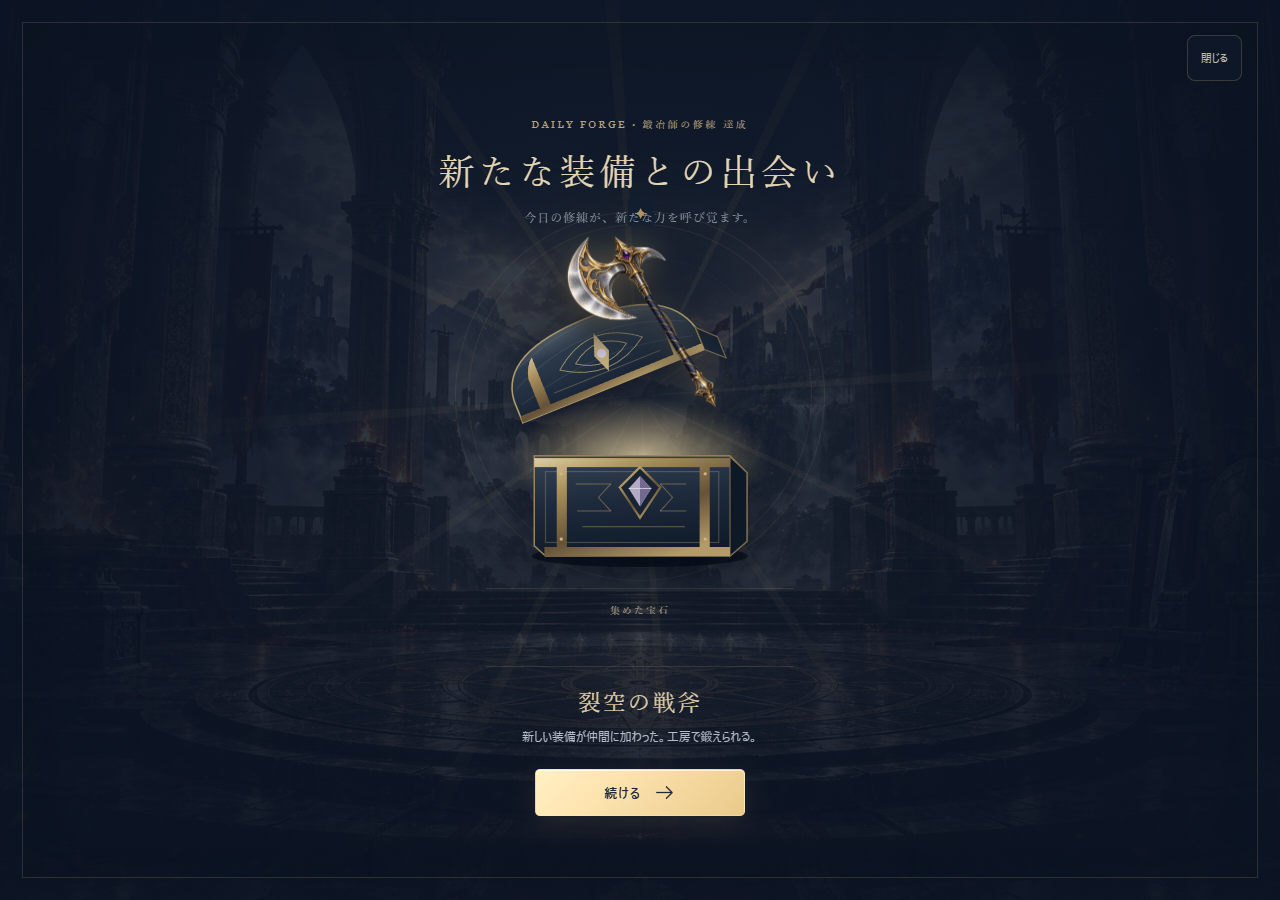
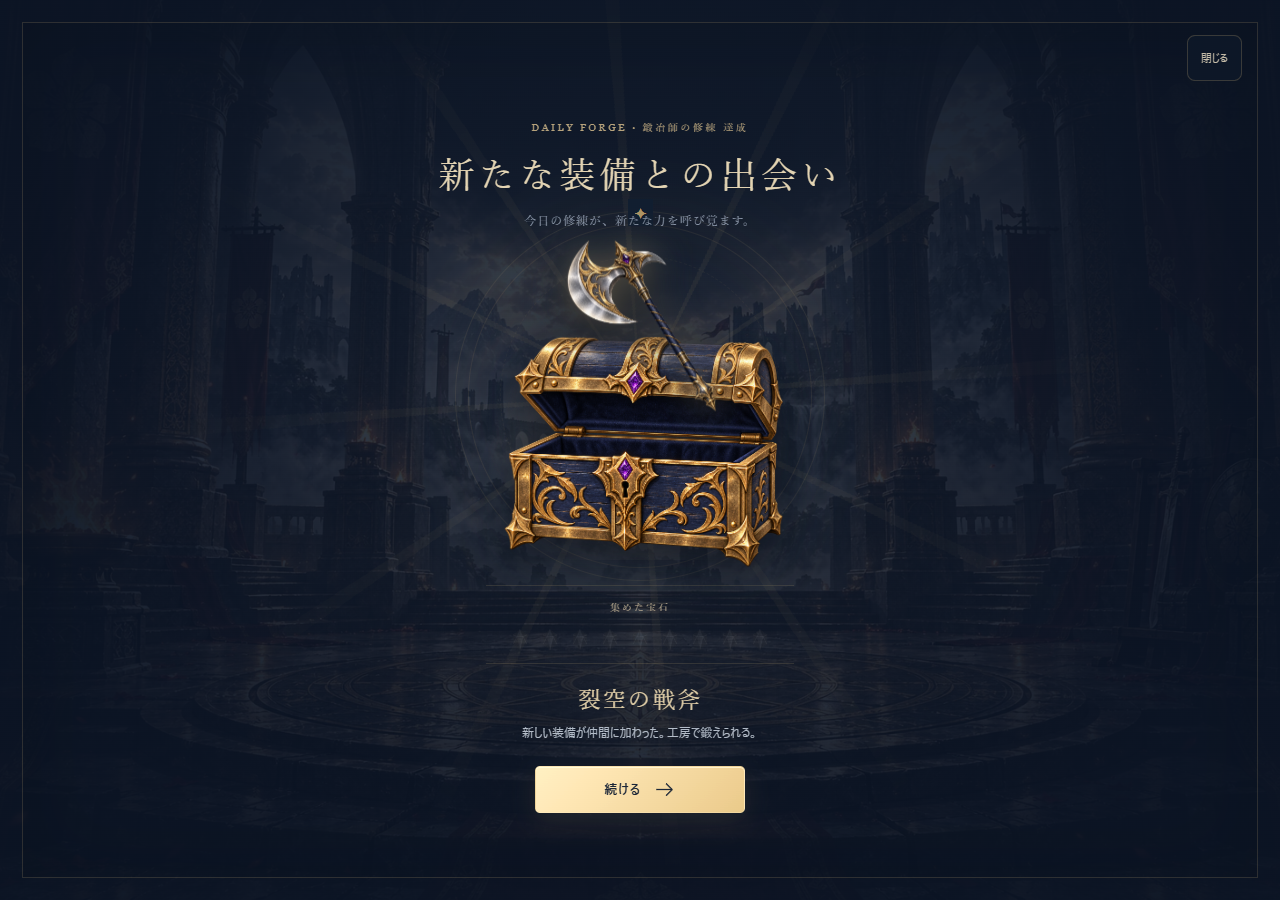
Replace flat treasure chest with painted relic artwork

Changed region(s): [[0.3438, 0.1244, 0.6562, 0.6533], [0.4062, 0.7467, 0.5938, 0.9333], [0.4688, 0.6533, 0.5312, 0.6844]]

diff --git a/app/dist/index.html b/app/dist/index.html
@@ -128,13 +128,14 @@ dialog::backdrop{background:#040813d6;backdrop-filter:blur(9px)}
 .treasure-seal:after{inset:44px;border-style:dashed;opacity:.6}
 .treasure-seal span{position:absolute;top:-13px;left:calc(50% - 12px);padding:0 6px;background:#111e30;color:#ae9565;font-size:16px}
 .treasure-chest{position:relative;flex:none;width:clamp(185px,27vw,270px);aspect-ratio:240/200;margin-top:105px;margin-bottom:6px;animation:chest-arrive 1.2s ease-out both}
-.chest-svg{width:100%;height:100%;overflow:visible;filter:drop-shadow(0 15px 24px #02081299)}
-.chest-lid{transform-box:view-box;transform-origin:30px 100px;transition:transform 1s cubic-bezier(.2,.7,.3,1)}
-.chest-glow{opacity:0;transition:opacity .8s}
-.shaking .chest-svg{animation:chest-breathe 1.5s ease-in-out infinite}
+.chest-art{position:absolute;inset:-30px -24px;filter:drop-shadow(0 15px 24px #02081299);pointer-events:none}
+.chest-art img{position:absolute;inset:0;width:100%;height:100%;object-fit:contain;transition:opacity .75s ease,transform .9s ease}
+.chest-opened{opacity:0;transform:translateY(5px)}
+.opened .chest-closed{opacity:0}
+.opened .chest-opened{opacity:1;transform:none}
+.chest-glow{position:absolute;inset:-22% -15% 5%;background:radial-gradient(ellipse at 50% 57%,#e4c78e55,transparent 62%);opacity:0;transition:opacity .8s;pointer-events:none}
+.shaking .chest-art{animation:chest-breathe 1.5s ease-in-out infinite}
 .shaking .chest-glow,.offering .chest-glow{opacity:.65;animation:glow-pulse 1.3s ease-in-out infinite alternate}
-.opened .chest-lid{transform:translate(-3px,-24px) rotate(-14deg)}
-.won .chest-lid{transform:translate(-10px,-32px) rotate(-22deg)}
 .won .chest-glow{opacity:.85}
 .treasure-burst{position:absolute;left:50%;top:40%;pointer-events:none}
 .treasure-burst i{position:absolute;width:2px;height:5px;background:#dbc697;box-shadow:0 0 8px #dfc28d66;opacity:0}
@@ -630,25 +631,7 @@ async function openGuild(tab='heroes'){
 // Treasure chest shown when the daily calculation mission rolls the equipment lottery.
 // The roll is already committed in core (gearPity = gems held). This scene only presents it and, on a win,
 // opens the earned equipment box with the normal discovery transaction.
-const CHEST_SVG=`<svg class="chest-svg" viewBox="0 0 240 200" aria-hidden="true"><defs>
-<linearGradient id="relic-wood" x2=".2" y2="1"><stop stop-color="#364455"/><stop offset=".48" stop-color="#1e2b3c"/><stop offset="1" stop-color="#101b2a"/></linearGradient>
-<linearGradient id="relic-gold" x2=".7" y2="1"><stop stop-color="#dfcca0"/><stop offset=".3" stop-color="#a78d5b"/><stop offset=".65" stop-color="#655238"/><stop offset="1" stop-color="#b49a68"/></linearGradient>
-<linearGradient id="relic-lid" x2="0" y2="1"><stop stop-color="#55616b"/><stop offset=".3" stop-color="#2c3b4c"/><stop offset="1" stop-color="#172334"/></linearGradient>
-<radialGradient id="relic-light"><stop stop-color="#f2dfb0" stop-opacity=".9"/><stop offset="1" stop-color="#d0b071" stop-opacity="0"/></radialGradient>
-</defs><ellipse cx="120" cy="187" rx="96" ry="10" fill="#020711" opacity=".65"/>
-<ellipse class="chest-glow" cx="120" cy="101" rx="116" ry="55" fill="url(#relic-light)"/>
-<g class="chest-body"><path d="M26 98h174l15 15v61l-15 13H36l-10-9z" fill="url(#relic-wood)" stroke="#9c855a" stroke-width="1.3"/>
-<path d="M200 99l15 14v61l-15 13z" fill="#0e1928" stroke="#7b694a"/><path d="M36 112h154v63H36z" fill="none" stroke="#b49a68" stroke-opacity=".35"/>
-<path d="M26 100h174v8H26zM35 179h165v8H35zM46 108h9v71h-9zM173 108h9v71h-9z" fill="url(#relic-gold)"/>
-<path d="M63 123h31l-11 12 11 12H64m97-24h-23l11 12-11 12h23M69 161h91" fill="none" stroke="#aa9160" stroke-width=".8" opacity=".6"/>
-<path d="M120 108l18 18-18 27-18-27z" fill="#182433" stroke="url(#relic-gold)" stroke-width="2"/>
-<path d="M120 116l10 11-10 16-10-16z" fill="#b5aac5"/><path d="M120 116v27l10-16z" fill="#736a91"/><path d="M110 127h20" stroke="#e4deec" stroke-width=".7"/>
-<g fill="#d0b981"><circle cx="50" cy="114" r="1.3"/><circle cx="50" cy="172" r="1.3"/><circle cx="178" cy="114" r="1.3"/><circle cx="178" cy="172" r="1.3"/></g></g>
-<g class="chest-lid"><path d="M26 99V78q4-44 87-44 75 0 87 44v21z" fill="url(#relic-lid)" stroke="#b09a6c" stroke-width="1.4"/>
-<path d="M200 99V78l15 15v20z" fill="#152132" stroke="#7b694a"/><path d="M31 84q83-25 164 0M32 69q82-38 161 0M40 53q73-31 143 0" fill="none" stroke="#a0a5a8" stroke-opacity=".12"/>
-<path d="M45 99V65q3-12 10-17v51zM173 99V48q7 5 9 17v34zM26 93h174v6H26z" fill="url(#relic-gold)"/>
-<path d="M74 68q39-32 79 0-39 27-79 0zM89 68q25-19 49 0-25 17-49 0z" fill="none" stroke="#c1ab78" stroke-width=".85" opacity=".75"/>
-<path d="M114 49l7 19-7 17-7-17z" fill="#c7b180"/><circle cx="114" cy="68" r="4" fill="#d6ccdf"/><path d="M62 85h101" stroke="#b49a68" stroke-opacity=".5" stroke-width=".7"/></g></svg>`;
+const CHEST_ART=`<div class="chest-glow" aria-hidden="true"></div><div class="chest-art" aria-hidden="true"><img class="chest-closed" src="assets/treasure/relic-chest-closed-v2.png" alt="" loading="eager" decoding="sync"><img class="chest-opened" src="assets/treasure/relic-chest-open-v2.png" alt="" loading="eager" decoding="sync"></div>`;
 const GEM_SVG='<svg viewBox="0 0 24 28" aria-hidden="true"><path d="M12 1 21 8v12l-9 7-9-7V8z" fill="currentColor" stroke="currentColor" stroke-width=".7"/><path d="m12 1 4 9-4 17-4-17z" fill="#eee6fa" fill-opacity=".3"/><path d="m3 8 5 2 4-9M21 8l-5 2 5 10M3 20l5-10h8l-4 17" fill="none" stroke="#f0e9ff" stroke-opacity=".55" stroke-width=".65"/><path d="M12 1 3 8v12l9 7" fill="#10182d" fill-opacity=".2"/></svg>';
 function gemRow(filled,cls=''){return `<div class="gem-row ${cls}" aria-label="宝石 ${filled}/9">${Array.from({length:9},(_,i)=>`<span class="gem-slot ${i<filled?'filled':''}" style="--i:${i}">${GEM_SVG}</span>`).join('')}</div>`;}
 function playTreasure(lottery){
@@ -659,7 +642,7 @@ function playTreasure(lottery){
     scene.innerHTML=`<div class="treasure-sky" aria-hidden="true"></div><div class="treasure-rays" aria-hidden="true"></div><button class="quiet treasure-skip" id="treasure-skip">演出をとばす</button>
     <div class="treasure-stage"><p class="treasure-kicker">DAILY FORGE · 鍛冶師の修練 達成</p><h2 id="treasure-title">叡智の宝箱</h2><p class="treasure-subtitle">今日の修練が、新たな力を呼び覚ます。</p>
     <div class="treasure-seal" aria-hidden="true"><span>✦</span></div>
-    <div class="treasure-chest">${CHEST_SVG}<div class="treasure-burst" aria-hidden="true">${Array.from({length:22},(_,i)=>`<i style="--a:${i*16.36}deg;--d:${(i%5)*.05}s"></i>`).join('')}</div><div class="treasure-item" aria-hidden="true"></div><div class="found-gem" aria-hidden="true">${GEM_SVG}</div></div>
+    <div class="treasure-chest">${CHEST_ART}<div class="treasure-burst" aria-hidden="true">${Array.from({length:22},(_,i)=>`<i style="--a:${i*16.36}deg;--d:${(i%5)*.05}s"></i>`).join('')}</div><div class="treasure-item" aria-hidden="true"></div><div class="found-gem" aria-hidden="true">${GEM_SVG}</div></div>
     <div class="treasure-gems"><small>集めた宝石</small>${gemRow(before)}</div>
     <p class="treasure-message" id="treasure-message" role="status" aria-live="polite">${before===9?'9つの宝石が光を放っている…。':before?`宝石を ${before}個 持っている。9個集めると、次の宝箱で必ず装備が見つかる。`:'中には装備が眠っているかもしれない。'}</p>
     <div class="treasure-actions"><button class="primary treasure-open" id="treasure-open">${icon('crystal')} 宝箱を開ける</button></div></div>`;

diff --git a/index.html b/index.html
@@ -128,13 +128,14 @@ dialog::backdrop{background:#040813d6;backdrop-filter:blur(9px)}
 .treasure-seal:after{inset:44px;border-style:dashed;opacity:.6}
 .treasure-seal span{position:absolute;top:-13px;left:calc(50% - 12px);padding:0 6px;background:#111e30;color:#ae9565;font-size:16px}
 .treasure-chest{position:relative;flex:none;width:clamp(185px,27vw,270px);aspect-ratio:240/200;margin-top:105px;margin-bottom:6px;animation:chest-arrive 1.2s ease-out both}
-.chest-svg{width:100%;height:100%;overflow:visible;filter:drop-shadow(0 15px 24px #02081299)}
-.chest-lid{transform-box:view-box;transform-origin:30px 100px;transition:transform 1s cubic-bezier(.2,.7,.3,1)}
-.chest-glow{opacity:0;transition:opacity .8s}
-.shaking .chest-svg{animation:chest-breathe 1.5s ease-in-out infinite}
+.chest-art{position:absolute;inset:-30px -24px;filter:drop-shadow(0 15px 24px #02081299);pointer-events:none}
+.chest-art img{position:absolute;inset:0;width:100%;height:100%;object-fit:contain;transition:opacity .75s ease,transform .9s ease}
+.chest-opened{opacity:0;transform:translateY(5px)}
+.opened .chest-closed{opacity:0}
+.opened .chest-opened{opacity:1;transform:none}
+.chest-glow{position:absolute;inset:-22% -15% 5%;background:radial-gradient(ellipse at 50% 57%,#e4c78e55,transparent 62%);opacity:0;transition:opacity .8s;pointer-events:none}
+.shaking .chest-art{animation:chest-breathe 1.5s ease-in-out infinite}
 .shaking .chest-glow,.offering .chest-glow{opacity:.65;animation:glow-pulse 1.3s ease-in-out infinite alternate}
-.opened .chest-lid{transform:translate(-3px,-24px) rotate(-14deg)}
-.won .chest-lid{transform:translate(-10px,-32px) rotate(-22deg)}
 .won .chest-glow{opacity:.85}
 .treasure-burst{position:absolute;left:50%;top:40%;pointer-events:none}
 .treasure-burst i{position:absolute;width:2px;height:5px;background:#dbc697;box-shadow:0 0 8px #dfc28d66;opacity:0}
@@ -630,25 +631,7 @@ async function openGuild(tab='heroes'){
 // Treasure chest shown when the daily calculation mission rolls the equipment lottery.
 // The roll is already committed in core (gearPity = gems held). This scene only presents it and, on a win,
 // opens the earned equipment box with the normal discovery transaction.
-const CHEST_SVG=`<svg class="chest-svg" viewBox="0 0 240 200" aria-hidden="true"><defs>
-<linearGradient id="relic-wood" x2=".2" y2="1"><stop stop-color="#364455"/><stop offset=".48" stop-color="#1e2b3c"/><stop offset="1" stop-color="#101b2a"/></linearGradient>
-<linearGradient id="relic-gold" x2=".7" y2="1"><stop stop-color="#dfcca0"/><stop offset=".3" stop-color="#a78d5b"/><stop offset=".65" stop-color="#655238"/><stop offset="1" stop-color="#b49a68"/></linearGradient>
-<linearGradient id="relic-lid" x2="0" y2="1"><stop stop-color="#55616b"/><stop offset=".3" stop-color="#2c3b4c"/><stop offset="1" stop-color="#172334"/></linearGradient>
-<radialGradient id="relic-light"><stop stop-color="#f2dfb0" stop-opacity=".9"/><stop offset="1" stop-color="#d0b071" stop-opacity="0"/></radialGradient>
-</defs><ellipse cx="120" cy="187" rx="96" ry="10" fill="#020711" opacity=".65"/>
-<ellipse class="chest-glow" cx="120" cy="101" rx="116" ry="55" fill="url(#relic-light)"/>
-<g class="chest-body"><path d="M26 98h174l15 15v61l-15 13H36l-10-9z" fill="url(#relic-wood)" stroke="#9c855a" stroke-width="1.3"/>
-<path d="M200 99l15 14v61l-15 13z" fill="#0e1928" stroke="#7b694a"/><path d="M36 112h154v63H36z" fill="none" stroke="#b49a68" stroke-opacity=".35"/>
-<path d="M26 100h174v8H26zM35 179h165v8H35zM46 108h9v71h-9zM173 108h9v71h-9z" fill="url(#relic-gold)"/>
-<path d="M63 123h31l-11 12 11 12H64m97-24h-23l11 12-11 12h23M69 161h91" fill="none" stroke="#aa9160" stroke-width=".8" opacity=".6"/>
-<path d="M120 108l18 18-18 27-18-27z" fill="#182433" stroke="url(#relic-gold)" stroke-width="2"/>
-<path d="M120 116l10 11-10 16-10-16z" fill="#b5aac5"/><path d="M120 116v27l10-16z" fill="#736a91"/><path d="M110 127h20" stroke="#e4deec" stroke-width=".7"/>
-<g fill="#d0b981"><circle cx="50" cy="114" r="1.3"/><circle cx="50" cy="172" r="1.3"/><circle cx="178" cy="114" r="1.3"/><circle cx="178" cy="172" r="1.3"/></g></g>
-<g class="chest-lid"><path d="M26 99V78q4-44 87-44 75 0 87 44v21z" fill="url(#relic-lid)" stroke="#b09a6c" stroke-width="1.4"/>
-<path d="M200 99V78l15 15v20z" fill="#152132" stroke="#7b694a"/><path d="M31 84q83-25 164 0M32 69q82-38 161 0M40 53q73-31 143 0" fill="none" stroke="#a0a5a8" stroke-opacity=".12"/>
-<path d="M45 99V65q3-12 10-17v51zM173 99V48q7 5 9 17v34zM26 93h174v6H26z" fill="url(#relic-gold)"/>
-<path d="M74 68q39-32 79 0-39 27-79 0zM89 68q25-19 49 0-25 17-49 0z" fill="none" stroke="#c1ab78" stroke-width=".85" opacity=".75"/>
-<path d="M114 49l7 19-7 17-7-17z" fill="#c7b180"/><circle cx="114" cy="68" r="4" fill="#d6ccdf"/><path d="M62 85h101" stroke="#b49a68" stroke-opacity=".5" stroke-width=".7"/></g></svg>`;
+const CHEST_ART=`<div class="chest-glow" aria-hidden="true"></div><div class="chest-art" aria-hidden="true"><img class="chest-closed" src="assets/treasure/relic-chest-closed-v2.png" alt="" loading="eager" decoding="sync"><img class="chest-opened" src="assets/treasure/relic-chest-open-v2.png" alt="" loading="eager" decoding="sync"></div>`;
 const GEM_SVG='<svg viewBox="0 0 24 28" aria-hidden="true"><path d="M12 1 21 8v12l-9 7-9-7V8z" fill="currentColor" stroke="currentColor" stroke-width=".7"/><path d="m12 1 4 9-4 17-4-17z" fill="#eee6fa" fill-opacity=".3"/><path d="m3 8 5 2 4-9M21 8l-5 2 5 10M3 20l5-10h8l-4 17" fill="none" stroke="#f0e9ff" stroke-opacity=".55" stroke-width=".65"/><path d="M12 1 3 8v12l9 7" fill="#10182d" fill-opacity=".2"/></svg>';
 function gemRow(filled,cls=''){return `<div class="gem-row ${cls}" aria-label="宝石 ${filled}/9">${Array.from({length:9},(_,i)=>`<span class="gem-slot ${i<filled?'filled':''}" style="--i:${i}">${GEM_SVG}</span>`).join('')}</div>`;}
 function playTreasure(lottery){
@@ -659,7 +642,7 @@ function playTreasure(lottery){
     scene.innerHTML=`<div class="treasure-sky" aria-hidden="true"></div><div class="treasure-rays" aria-hidden="true"></div><button class="quiet treasure-skip" id="treasure-skip">演出をとばす</button>
     <div class="treasure-stage"><p class="treasure-kicker">DAILY FORGE · 鍛冶師の修練 達成</p><h2 id="treasure-title">叡智の宝箱</h2><p class="treasure-subtitle">今日の修練が、新たな力を呼び覚ます。</p>
     <div class="treasure-seal" aria-hidden="true"><span>✦</span></div>
-    <div class="treasure-chest">${CHEST_SVG}<div class="treasure-burst" aria-hidden="true">${Array.from({length:22},(_,i)=>`<i style="--a:${i*16.36}deg;--d:${(i%5)*.05}s"></i>`).join('')}</div><div class="treasure-item" aria-hidden="true"></div><div class="found-gem" aria-hidden="true">${GEM_SVG}</div></div>
+    <div class="treasure-chest">${CHEST_ART}<div class="treasure-burst" aria-hidden="true">${Array.from({length:22},(_,i)=>`<i style="--a:${i*16.36}deg;--d:${(i%5)*.05}s"></i>`).join('')}</div><div class="treasure-item" aria-hidden="true"></div><div class="found-gem" aria-hidden="true">${GEM_SVG}</div></div>
     <div class="treasure-gems"><small>集めた宝石</small>${gemRow(before)}</div>
     <p class="treasure-message" id="treasure-message" role="status" aria-live="polite">${before===9?'9つの宝石が光を放っている…。':before?`宝石を ${before}個 持っている。9個集めると、次の宝箱で必ず装備が見つかる。`:'中には装備が眠っているかもしれない。'}</p>
     <div class="treasure-actions"><button class="primary treasure-open" id="treasure-open">${icon('crystal')} 宝箱を開ける</button></div></div>`;

diff --git a/app/src/campaign-ui.js b/app/src/campaign-ui.js
@@ -127,25 +127,7 @@ async function openGuild(tab='heroes'){
 // Treasure chest shown when the daily calculation mission rolls the equipment lottery.
 // The roll is already committed in core (gearPity = gems held). This scene only presents it and, on a win,
 // opens the earned equipment box with the normal discovery transaction.
-const CHEST_SVG=`<svg class="chest-svg" viewBox="0 0 240 200" aria-hidden="true"><defs>
-<linearGradient id="relic-wood" x2=".2" y2="1"><stop stop-color="#364455"/><stop offset=".48" stop-color="#1e2b3c"/><stop offset="1" stop-color="#101b2a"/></linearGradient>
-<linearGradient id="relic-gold" x2=".7" y2="1"><stop stop-color="#dfcca0"/><stop offset=".3" stop-color="#a78d5b"/><stop offset=".65" stop-color="#655238"/><stop offset="1" stop-color="#b49a68"/></linearGradient>
-<linearGradient id="relic-lid" x2="0" y2="1"><stop stop-color="#55616b"/><stop offset=".3" stop-color="#2c3b4c"/><stop offset="1" stop-color="#172334"/></linearGradient>
-<radialGradient id="relic-light"><stop stop-color="#f2dfb0" stop-opacity=".9"/><stop offset="1" stop-color="#d0b071" stop-opacity="0"/></radialGradient>
-</defs><ellipse cx="120" cy="187" rx="96" ry="10" fill="#020711" opacity=".65"/>
-<ellipse class="chest-glow" cx="120" cy="101" rx="116" ry="55" fill="url(#relic-light)"/>
-<g class="chest-body"><path d="M26 98h174l15 15v61l-15 13H36l-10-9z" fill="url(#relic-wood)" stroke="#9c855a" stroke-width="1.3"/>
-<path d="M200 99l15 14v61l-15 13z" fill="#0e1928" stroke="#7b694a"/><path d="M36 112h154v63H36z" fill="none" stroke="#b49a68" stroke-opacity=".35"/>
-<path d="M26 100h174v8H26zM35 179h165v8H35zM46 108h9v71h-9zM173 108h9v71h-9z" fill="url(#relic-gold)"/>
-<path d="M63 123h31l-11 12 11 12H64m97-24h-23l11 12-11 12h23M69 161h91" fill="none" stroke="#aa9160" stroke-width=".8" opacity=".6"/>
-<path d="M120 108l18 18-18 27-18-27z" fill="#182433" stroke="url(#relic-gold)" stroke-width="2"/>
-<path d="M120 116l10 11-10 16-10-16z" fill="#b5aac5"/><path d="M120 116v27l10-16z" fill="#736a91"/><path d="M110 127h20" stroke="#e4deec" stroke-width=".7"/>
-<g fill="#d0b981"><circle cx="50" cy="114" r="1.3"/><circle cx="50" cy="172" r="1.3"/><circle cx="178" cy="114" r="1.3"/><circle cx="178" cy="172" r="1.3"/></g></g>
-<g class="chest-lid"><path d="M26 99V78q4-44 87-44 75 0 87 44v21z" fill="url(#relic-lid)" stroke="#b09a6c" stroke-width="1.4"/>
-<path d="M200 99V78l15 15v20z" fill="#152132" stroke="#7b694a"/><path d="M31 84q83-25 164 0M32 69q82-38 161 0M40 53q73-31 143 0" fill="none" stroke="#a0a5a8" stroke-opacity=".12"/>
-<path d="M45 99V65q3-12 10-17v51zM173 99V48q7 5 9 17v34zM26 93h174v6H26z" fill="url(#relic-gold)"/>
-<path d="M74 68q39-32 79 0-39 27-79 0zM89 68q25-19 49 0-25 17-49 0z" fill="none" stroke="#c1ab78" stroke-width=".85" opacity=".75"/>
-<path d="M114 49l7 19-7 17-7-17z" fill="#c7b180"/><circle cx="114" cy="68" r="4" fill="#d6ccdf"/><path d="M62 85h101" stroke="#b49a68" stroke-opacity=".5" stroke-width=".7"/></g></svg>`;
+const CHEST_ART=`<div class="chest-glow" aria-hidden="true"></div><div class="chest-art" aria-hidden="true"><img class="chest-closed" src="assets/treasure/relic-chest-closed-v2.png" alt="" loading="eager" decoding="sync"><img class="chest-opened" src="assets/treasure/relic-chest-open-v2.png" alt="" loading="eager" decoding="sync"></div>`;
 const GEM_SVG='<svg viewBox="0 0 24 28" aria-hidden="true"><path d="M12 1 21 8v12l-9 7-9-7V8z" fill="currentColor" stroke="currentColor" stroke-width=".7"/><path d="m12 1 4 9-4 17-4-17z" fill="#eee6fa" fill-opacity=".3"/><path d="m3 8 5 2 4-9M21 8l-5 2 5 10M3 20l5-10h8l-4 17" fill="none" stroke="#f0e9ff" stroke-opacity=".55" stroke-width=".65"/><path d="M12 1 3 8v12l9 7" fill="#10182d" fill-opacity=".2"/></svg>';
 function gemRow(filled,cls=''){return `<div class="gem-row ${cls}" aria-label="宝石 ${filled}/9">${Array.from({length:9},(_,i)=>`<span class="gem-slot ${i<filled?'filled':''}" style="--i:${i}">${GEM_SVG}</span>`).join('')}</div>`;}
 function playTreasure(lottery){
@@ -156,7 +138,7 @@ function playTreasure(lottery){
     scene.innerHTML=`<div class="treasure-sky" aria-hidden="true"></div><div class="treasure-rays" aria-hidden="true"></div><button class="quiet treasure-skip" id="treasure-skip">演出をとばす</button>
     <div class="treasure-stage"><p class="treasure-kicker">DAILY FORGE · 鍛冶師の修練 達成</p><h2 id="treasure-title">叡智の宝箱</h2><p class="treasure-subtitle">今日の修練が、新たな力を呼び覚ます。</p>
     <div class="treasure-seal" aria-hidden="true"><span>✦</span></div>
-    <div class="treasure-chest">${CHEST_SVG}<div class="treasure-burst" aria-hidden="true">${Array.from({length:22},(_,i)=>`<i style="--a:${i*16.36}deg;--d:${(i%5)*.05}s"></i>`).join('')}</div><div class="treasure-item" aria-hidden="true"></div><div class="found-gem" aria-hidden="true">${GEM_SVG}</div></div>
+    <div class="treasure-chest">${CHEST_ART}<div class="treasure-burst" aria-hidden="true">${Array.from({length:22},(_,i)=>`<i style="--a:${i*16.36}deg;--d:${(i%5)*.05}s"></i>`).join('')}</div><div class="treasure-item" aria-hidden="true"></div><div class="found-gem" aria-hidden="true">${GEM_SVG}</div></div>
     <div class="treasure-gems"><small>集めた宝石</small>${gemRow(before)}</div>
     <p class="treasure-message" id="treasure-message" role="status" aria-live="polite">${before===9?'9つの宝石が光を放っている…。':before?`宝石を ${before}個 持っている。9個集めると、次の宝箱で必ず装備が見つかる。`:'中には装備が眠っているかもしれない。'}</p>
     <div class="treasure-actions"><button class="primary treasure-open" id="treasure-open">${icon('crystal')} 宝箱を開ける</button></div></div>`;

diff --git a/app/src/campaign.css b/app/src/campaign.css
@@ -113,13 +113,14 @@ dialog::backdrop{background:#040813d6;backdrop-filter:blur(9px)}
 .treasure-seal:after{inset:44px;border-style:dashed;opacity:.6}
 .treasure-seal span{position:absolute;top:-13px;left:calc(50% - 12px);padding:0 6px;background:#111e30;color:#ae9565;font-size:16px}
 .treasure-chest{position:relative;flex:none;width:clamp(185px,27vw,270px);aspect-ratio:240/200;margin-top:105px;margin-bottom:6px;animation:chest-arrive 1.2s ease-out both}
-.chest-svg{width:100%;height:100%;overflow:visible;filter:drop-shadow(0 15px 24px #02081299)}
-.chest-lid{transform-box:view-box;transform-origin:30px 100px;transition:transform 1s cubic-bezier(.2,.7,.3,1)}
-.chest-glow{opacity:0;transition:opacity .8s}
-.shaking .chest-svg{animation:chest-breathe 1.5s ease-in-out infinite}
+.chest-art{position:absolute;inset:-30px -24px;filter:drop-shadow(0 15px 24px #02081299);pointer-events:none}
+.chest-art img{position:absolute;inset:0;width:100%;height:100%;object-fit:contain;transition:opacity .75s ease,transform .9s ease}
+.chest-opened{opacity:0;transform:translateY(5px)}
+.opened .chest-closed{opacity:0}
+.opened .chest-opened{opacity:1;transform:none}
+.chest-glow{position:absolute;inset:-22% -15% 5%;background:radial-gradient(ellipse at 50% 57%,#e4c78e55,transparent 62%);opacity:0;transition:opacity .8s;pointer-events:none}
+.shaking .chest-art{animation:chest-breathe 1.5s ease-in-out infinite}
 .shaking .chest-glow,.offering .chest-glow{opacity:.65;animation:glow-pulse 1.3s ease-in-out infinite alternate}
-.opened .chest-lid{transform:translate(-3px,-24px) rotate(-14deg)}
-.won .chest-lid{transform:translate(-10px,-32px) rotate(-22deg)}
 .won .chest-glow{opacity:.85}
 .treasure-burst{position:absolute;left:50%;top:40%;pointer-events:none}
 .treasure-burst i{position:absolute;width:2px;height:5px;background:#dbc697;box-shadow:0 0 8px #dfc28d66;opacity:0}

diff --git a/docs/treasure-art-v2.md b/docs/treasure-art-v2.md
@@ -1,0 +1,21 @@
+# 宝箱の描き直し
+
+前版の平面的なSVGを、既存の装備画像の描画密度に合わせた透過PNGに交換しました。古金色の彫金、紺色の木目、金属の厚み、陰影を加えました。開いた状態は蓋が蝶番で本体につながり、紺色の内張りが見えます。2枚を切り替えて開封を表現します。
+
+生成には組み込みの ImageGen を使用。既存の `app/dist/assets/equipment/storm-axe-v1.png` を質感と画風の参考にしました。出力はどちらも1254×1254、RGBA、背景透過です。生成後の画像加工は行っていません。
+
+保存先：
+
+- `assets/treasure/relic-chest-closed-v2.png`
+- `assets/treasure/relic-chest-open-v2.png`
+- 配信用に同一ファイルを `app/dist/assets/treasure/` に配置。
+
+## 生成プロンプト
+
+### 閉じた状態
+
+Use case: stylized-concept. Asset type: production transparent PNG treasure chest for an illustrated fantasy mathematics RPG. The reference axe is STYLE AND MATERIAL reference only; create a NEW subject, one CLOSED treasure chest. Match the axe's refined painterly realism, densely engraved antique gold fittings, dimensional worn metal highlights, deep midnight blue material and small restrained amethyst. Chest: substantial heirloom reliquary, dark navy lacquered wood with visible subtle grain, thick aged brass/gold bands, finely engraved botanical scrollwork, reinforced corners, substantial central lock with a small violet crystal. Elegantly crafted, convincingly heavy, neither cute nor cartoon. View almost front on, camera slightly above, tiny right side visible, horizontal chest centered. Closed lid. Warm soft upper-left light, cool navy shadows, crisp readable silhouette at 240px display size. Isolated on GENUINELY TRANSPARENT background, no environment, no floor, no cast shadow outside object, no glow or particles, no text, no symbols or UI. Whole object fits inside square canvas, approximately 85% canvas width, leave top and bottom transparent margin. This is a game item illustration, not a flat icon or vector diagram. Render detailed engraved physical materials matching the supplied axe.
+
+### 開いた状態
+
+Use case: precise-object-edit. Create the OPEN state of this exact fantasy treasure chest for a game animation. Preserve the same square canvas, genuinely transparent background, camera angle, chest width, base position, body silhouette, navy wood grain, antique engraved gold material, violet gem and lighting. Keep the LOWER BODY pixel-aligned as closely as possible at the same position; do not resize or move it. Change only the lid: naturally hinged backward and upward to an open 65-degree position, fitted to the body with connected hinges, with a dark navy velvet interior and subtle warm gold light just inside the cavity. The lid should be visibly physically connected rather than floating. Open lid may use transparent space above current chest. Empty chest: no equipment, coins, treasure piles, text, particles, magical rays or external glow. No ground or background. Exactly the same refined painted realistic game-item style. Important: this is a matching alternate animation state, keep the body and perspective invariant. Preserve actual alpha transparency.

diff --git a/docs/treasure-visual-adjustment.md b/docs/treasure-visual-adjustment.md
@@ -2,7 +2,7 @@
 
 2026-10-12。GitHub main の 0409f35 を基準に調整。
 
-既存の聖域の背景、深い紺色、古金色、明朝体に統一しました。宝箱は紺色の面と金属の縁、細い装飾、淡い紫の封印で構成。宝石は多面体の結晶にし、未取得の枠は控えめに表示します。
+既存の聖域の背景、深い紺色、古金色、明朝体に統一しました。宝箱は紺色の木目、厚い金属の縁、彫金、紫の封印で構成。初版のSVGは平面的だったため、装備画像と同じ描画密度の透過PNG2枚に交換しました。制作プロンプトと保存先は [treasure-art-v2.md](treasure-art-v2.md) に記録しています。宝石は多面体の結晶にし、未取得の枠は控えめに表示します。
 
 装備が次々に切り替わる表示を取り除き、約2.6秒の静かな発光から宝箱が開き、装備が現れる流れにしました。跳ねる動き、激しい揺れ、大きな粒子、強い光を抑えています。発見時の見出しも画面全体と調子をそろえました。
 
